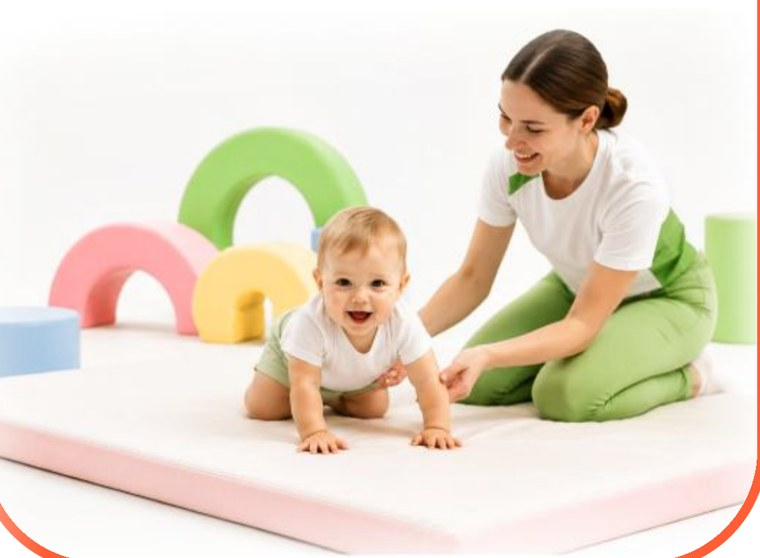
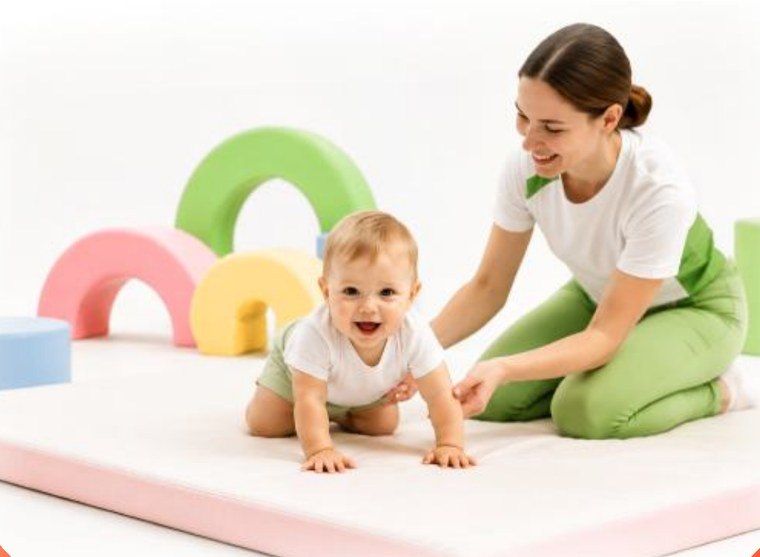
Taller program cards with full images and clean image edges
- Show the full card photo (height auto instead of fixed-height cover crop),
  which also makes the cards taller so the whole image fits
- Re-crop the card photos to remove the leftover coloured border slivers;
  only the card rectangle's coloured outline remains

Claude-Session: https://claude.ai/code/session_01AYj9tbjj1WconamADHn7BC

diff --git a/styles.css b/styles.css
@@ -180,7 +180,7 @@ a { text-decoration: none; color: inherit; }
 .pc-title { font-size: clamp(18px, 1.5vw, 23px); font-weight: 700; color: var(--green-d); margin-bottom: 14px; line-height: 1.15; }
 .pc-desc { font-size: 15px; color: #6f7378; font-weight: 400; line-height: 1.5; margin-bottom: 26px; }
 .pc-photo { margin: auto -28px 0; }
-.pc-photo img { width: 100%; height: 248px; object-fit: cover; object-position: center bottom; display: block; }
+.pc-photo img { width: 100%; height: auto; display: block; }
 
 .pc-coral { border-color: #FF6F5E; }
 .pc-coral .pc-age { color: #FF6F5E; }
